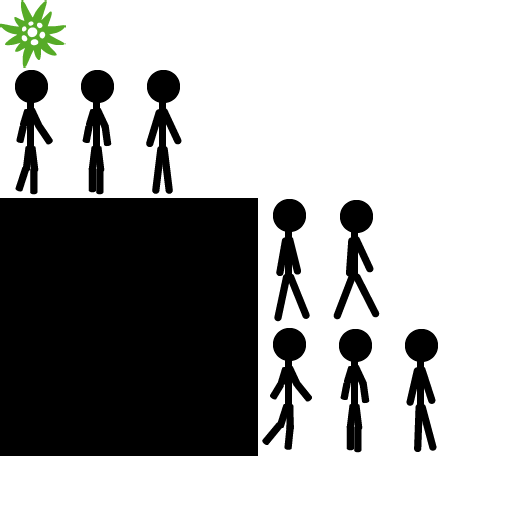
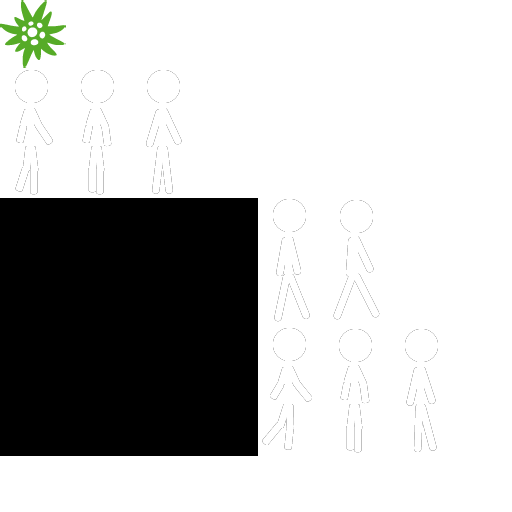
Player Colors

diff --git a/core/src/de/johannesbade/kletterhoelle/Stickman.java b/core/src/de/johannesbade/kletterhoelle/Stickman.java
@@ -2,6 +2,7 @@ package de.johannesbade.kletterhoelle;
 
 import com.badlogic.gdx.Gdx;
 import com.badlogic.gdx.Input.Keys;
+import com.badlogic.gdx.graphics.Color;
 import com.badlogic.gdx.graphics.g2d.Animation;
 import com.badlogic.gdx.graphics.g2d.Batch;
 import com.badlogic.gdx.graphics.g2d.Sprite;
@@ -60,8 +61,11 @@ public class Stickman extends GameObject{
 	
 	private int controllerID = 0;
 	
-	public Stickman(GameContext context, float x, float y) {
+	
+	public Stickman(GameContext context, float x, float y, Color color) {
 		super(context, GameObject.TYPE_PLAYER);
+	
+		
 		sprite = new Sprite(context.getAtlas().findRegion("stickmanwalk"));
 		Array<AtlasRegion> frames = context.getAtlas().findRegions("stickmanwalk");
 		animWalk = new Animation(0.1f, frames);
@@ -75,7 +79,7 @@ public class Stickman extends GameObject{
 		animStand = new Animation(0.5f, frames);
 		animStand.setPlayMode(Animation.PlayMode.LOOP_PINGPONG);
 		
-				
+		setColor(color);
 		animation = animStand;
 		
 		setWidth(sprite.getWidth());
@@ -113,6 +117,7 @@ public class Stickman extends GameObject{
 		body.setUserData(this);
 		updateBounds();
 		
+		sprite.setColor(color);
 		
 	}
 	
@@ -212,14 +217,15 @@ public class Stickman extends GameObject{
 	}
 	
 	
-	public void key(int keyCode, boolean pressed)
+	public boolean  key(int keyCode, boolean pressed)
 	{
-		
 		if (keyCode == key_left) key_left_pressed = pressed;
 		if (keyCode == key_right) key_right_pressed = pressed;
 		if (keyCode == key_jump) {
 			if (pressed && grounded) jump = true;		
 		}
+		if (keyCode == key_left || keyCode == key_right || keyCode == key_jump) return true;
+			else return false;
 	}
 	
 	public boolean button(int controllerID, int button, boolean pressed)
@@ -242,6 +248,7 @@ public class Stickman extends GameObject{
 	}
 
 	public void setGroundedPlattform(GameObject groundedPlattform) {
+		if (groundedPlattform != null) grounded = true;
 		this.groundedPlattform = groundedPlattform;
 	}
 

diff --git a/core/src/de/johannesbade/kletterhoelle/GameContext.java b/core/src/de/johannesbade/kletterhoelle/GameContext.java
@@ -4,6 +4,8 @@ import com.badlogic.gdx.Gdx;
 import com.badlogic.gdx.graphics.Color;
 import com.badlogic.gdx.graphics.g2d.BitmapFont;
 import com.badlogic.gdx.graphics.g2d.TextureAtlas;
+import com.badlogic.gdx.graphics.g2d.freetype.FreeTypeFontGenerator;
+import com.badlogic.gdx.graphics.g2d.freetype.FreeTypeFontGenerator.FreeTypeFontParameter;
 import com.badlogic.gdx.math.Vector2;
 import com.badlogic.gdx.physics.box2d.World;
 import com.badlogic.gdx.scenes.scene2d.Stage;
@@ -14,6 +16,7 @@ public class GameContext {
 	public static final float GAME_SPEED =15;
 	public static final float GRAVITY = -50f;
 	public static final float PIXELSPERMETER = 100;
+	public static final int CONTROLLER_KEYBOARD = 11111;
 	
 	private TextureAtlas atlas = null;
 	private World world = null;
@@ -22,6 +25,7 @@ public class GameContext {
 	private float timeElapsed = 0f;
 	private BitmapFont font = null;
 	
+	
 	public GameContext() {
 		stage = new Stage();
 		world = new World(new Vector2(0,GameContext.GRAVITY), true);
@@ -29,17 +33,17 @@ public class GameContext {
 		atlas = new TextureAtlas("atlas/kletterhoelle.pack");
 		timeElapsed = 0f;
 		
-		/*
+		
 		font = new BitmapFont(Gdx.files.internal("fonts/roboto.fnt"));
-		FreeTypeFontGenerator gen = new FreeTypeFontGenerator(Gdx.files.internal("fonts/ariblk.ttf"));
+		FreeTypeFontGenerator gen = new FreeTypeFontGenerator(Gdx.files.internal("fonts/Roboto-Bold.ttf"));
 		FreeTypeFontParameter parameter = new FreeTypeFontParameter();
-		parameter.size = 24;
+		parameter.size = 28;
 		font = gen.generateFont(parameter);
 		
         font.setColor(Color.GREEN);
-        */
-		font = new BitmapFont(Gdx.files.internal("fonts/SHOWG-24.fnt"));
-		font.setColor(Color.BLACK);
+        
+		//font = new BitmapFont(Gdx.files.internal("fonts/SHOWG-24.fnt"));
+		//font.setColor(Color.BLACK);
 	}
 
 	public Stage getStage() {

diff --git a/core/src/de/johannesbade/kletterhoelle/MovingPlatform.java b/core/src/de/johannesbade/kletterhoelle/MovingPlatform.java
@@ -17,10 +17,12 @@ public class MovingPlatform extends GameObject {
 	private float dist = 0f;
 	private float maxDist = 100;
 	private float speed = 1f;
+	private float delay = 0;
 	
-	public MovingPlatform(GameContext context, int x, int y, int width, int height, float maxDist) {
+	public MovingPlatform(GameContext context, int x, int y, int width, int height, float maxDist, float delay) {
 		super(context, GameObject.TYPE_GROUND);
 		this.maxDist = maxDist;
+		this.delay = delay;
 		setBounds(x, y, width, height);
 		sprite = new Sprite(context.getAtlas().findRegion("fenster"));
 		
@@ -57,7 +59,8 @@ public class MovingPlatform extends GameObject {
 	@Override
 	public void act(float delta) {
 		super.act(delta);
-		
+		if (getContext().getTimeElapsed() > delay)
+		{
 		dist += dir.len() * delta;
 		if(dist > maxDist) {
 			dir.y = dir.y * -1;
@@ -65,7 +68,7 @@ public class MovingPlatform extends GameObject {
 		}
 		
 		body.setLinearVelocity(dir);
-		 
+		}
 	}
 
 }

diff --git a/desktop/src/de/johannesbade/kletterhoelle/desktop/DesktopLauncher.java b/desktop/src/de/johannesbade/kletterhoelle/desktop/DesktopLauncher.java
@@ -10,7 +10,7 @@ public class DesktopLauncher {
 		LwjglApplicationConfiguration config = new LwjglApplicationConfiguration();
 		config.width = 1920;
 		config.height = 1080;
-		//config.fullscreen = true;
+		config.fullscreen = false;
 		
 		new LwjglApplication(new KletterHoelle(), config);
 	}
